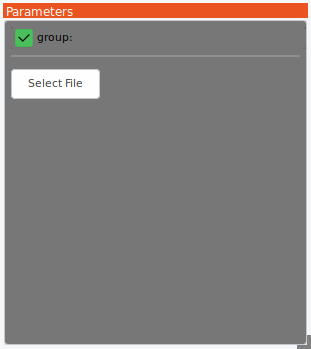
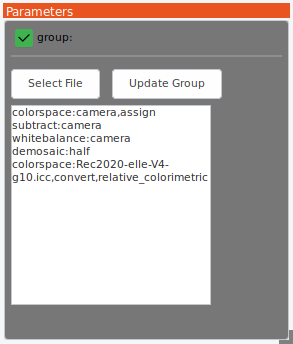
doc update, group

diff --git a/doc/group.html b/doc/group.html
@@ -1,0 +1,16 @@
+<html><title>Group</title><link rel="stylesheet" type="text/css" href="rawprocdoc.css"><body>
+
+<h3 id="Group">Group</h3>
+<p>Allows updating the selected group.  Two ways:
+<ul>
+<li>File Select: Allows one to select a toollist file to populate the group. The filename
+is appended to the group item in the command list.</li>
+<li>Update Group: Allows one to edit a group command list. The command string in the 
+edit box is edited, and then the Update Group button is pressed to change the group and
+replace the processed image.  If the updated group was populated from a toollist file,
+the filename is removed from the group item in the command list.</li>
+</ul>
+</p>
+<p align=center><img src=group.png></p>
+
+</body></html>

diff --git a/doc/index.html b/doc/index.html
@@ -65,6 +65,9 @@ iframe {
 			<LI> <a href="gray.html"
  target="content">"Grayscale"
 </a>
+			<LI> <a href="group.html"
+ target="content">"Group"
+</a>
 			<LI> <a href="lenscorrection.html"
  target="content">"Lens Correction"
 </a>
